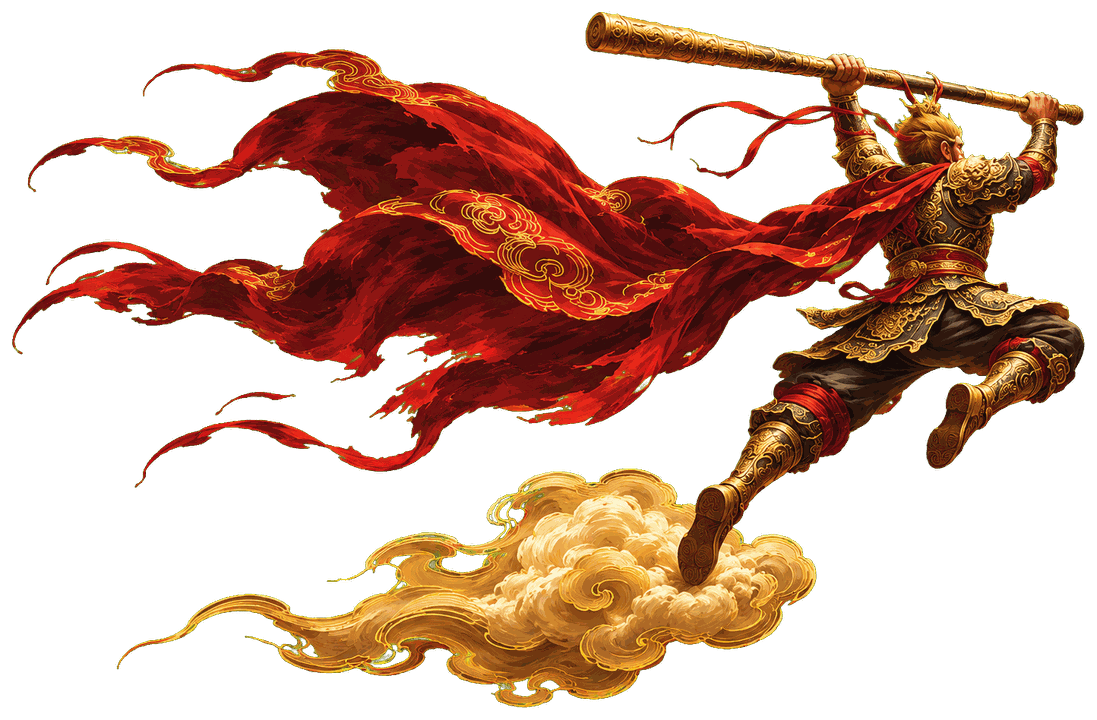
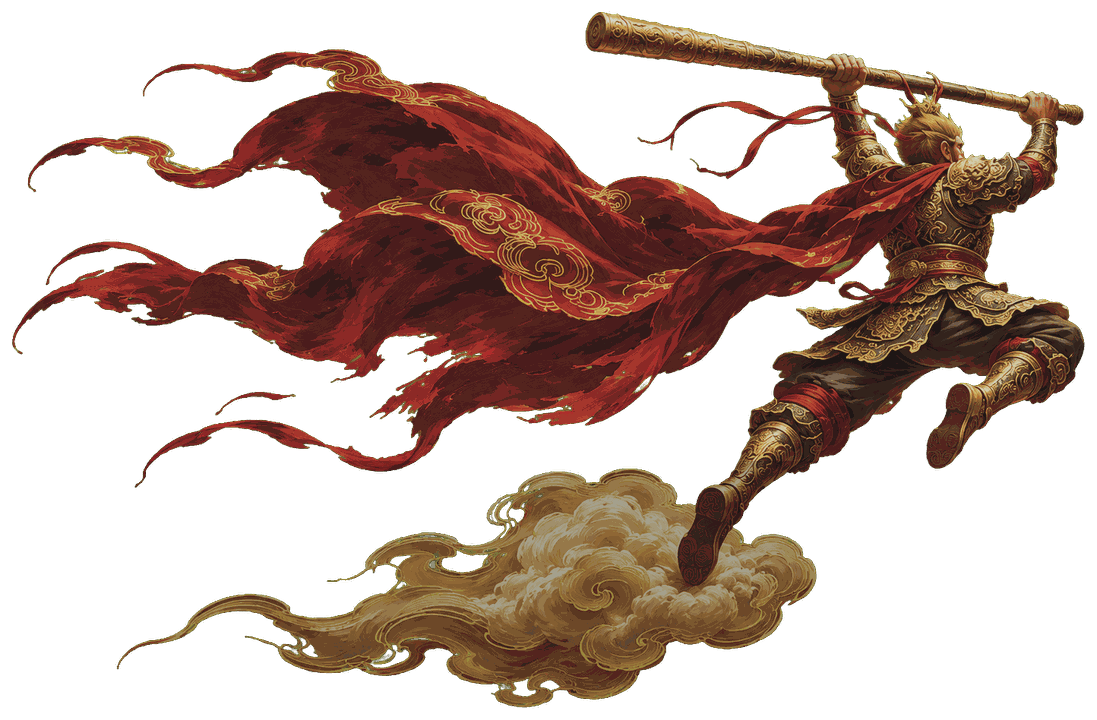
Soften Great Sage's hero and light only its staff and cape patterns, slower

diff --git a/great-sage/ARTWORK.md b/great-sage/ARTWORK.md
@@ -21,6 +21,10 @@ unthemed layout, with no character or pose reference. Prompt:
 
 From the attached mockup, paint ONLY the Monkey King together with the golden somersault cloud (筋斗云) he leaps from, as one standalone cutout for compositing: the same character, costume, painting style, airborne pose with the golden staff swung overhead in both hands, his flowing red ink-wash cape, and the swirling gold-outlined auspicious cloud below and behind his feet. Seen from behind at an angle. He has NO tail. Everything fully inside the frame with margin. No UI, no text, no mountains, no palace, no other scenery. Background: a perfectly flat, uniform chroma-key green #00FF00 everywhere around him, with no shadows, glow or gradients on it, and no green anywhere on the character or cloud.
 
+After keying, its saturation was lowered to 82% and its contrast to 78% around a
+dark mid-tone, and the cloud darkened a further 22%, so the figure sits in the
+wallpaper's dim light.
+
 The green ground was keyed to alpha with spill removed, then the figure was
 trimmed, scaled to 720 pixels high and indexed.
 
@@ -84,10 +88,11 @@ Stop use separate high-contrast solid fills with Kit vector glyphs.
 
 ### sheen.png
 
-The mask of the hero's sheen: the gold of the staff, the cape's cloud patterns,
-the armor and the somersault cloud, taken from `hero.png` by color (warm,
-saturated and bright pixels), softened by a 1.2-pixel blur and indexed. It is
-not generated artwork.
+The mask of the hero's sheen: the gold of the staff and of the cape's cloud
+patterns, taken from the keyed hero by color (warm, saturated and bright pixels)
+within the staff's and the cape's regions, so the armor and the somersault cloud
+stay unlit. Softened by a 1.4-pixel blur, strengthened and indexed. It is not
+generated artwork.
 
 ### Send glyph refinement
 
